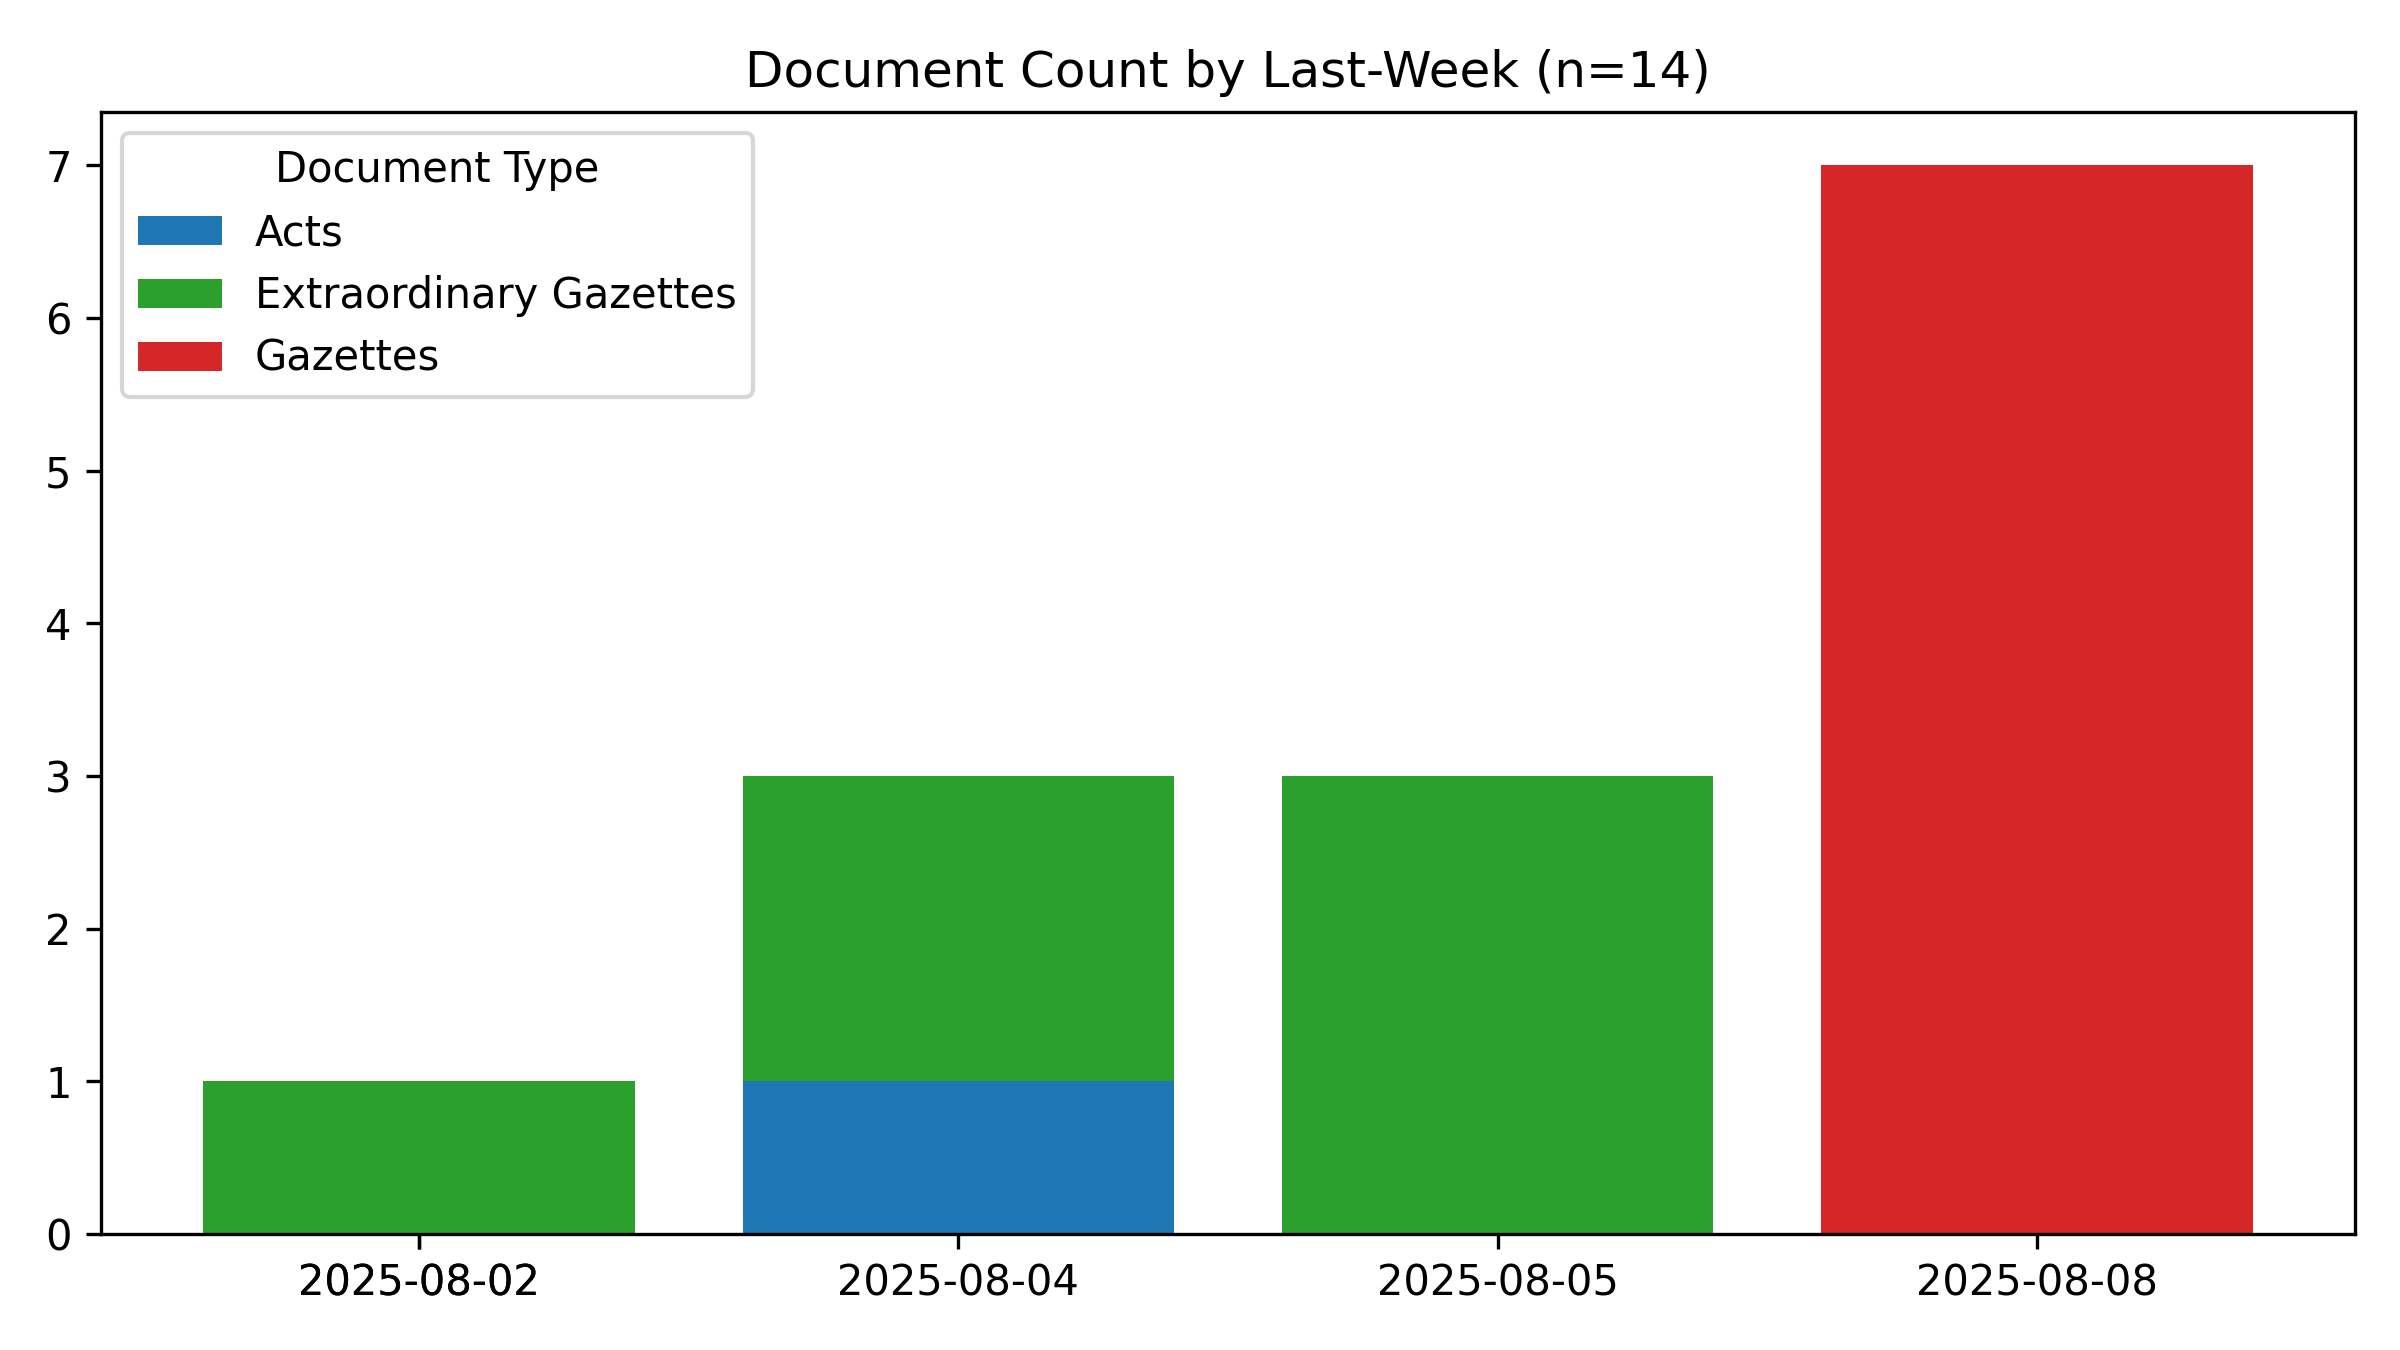
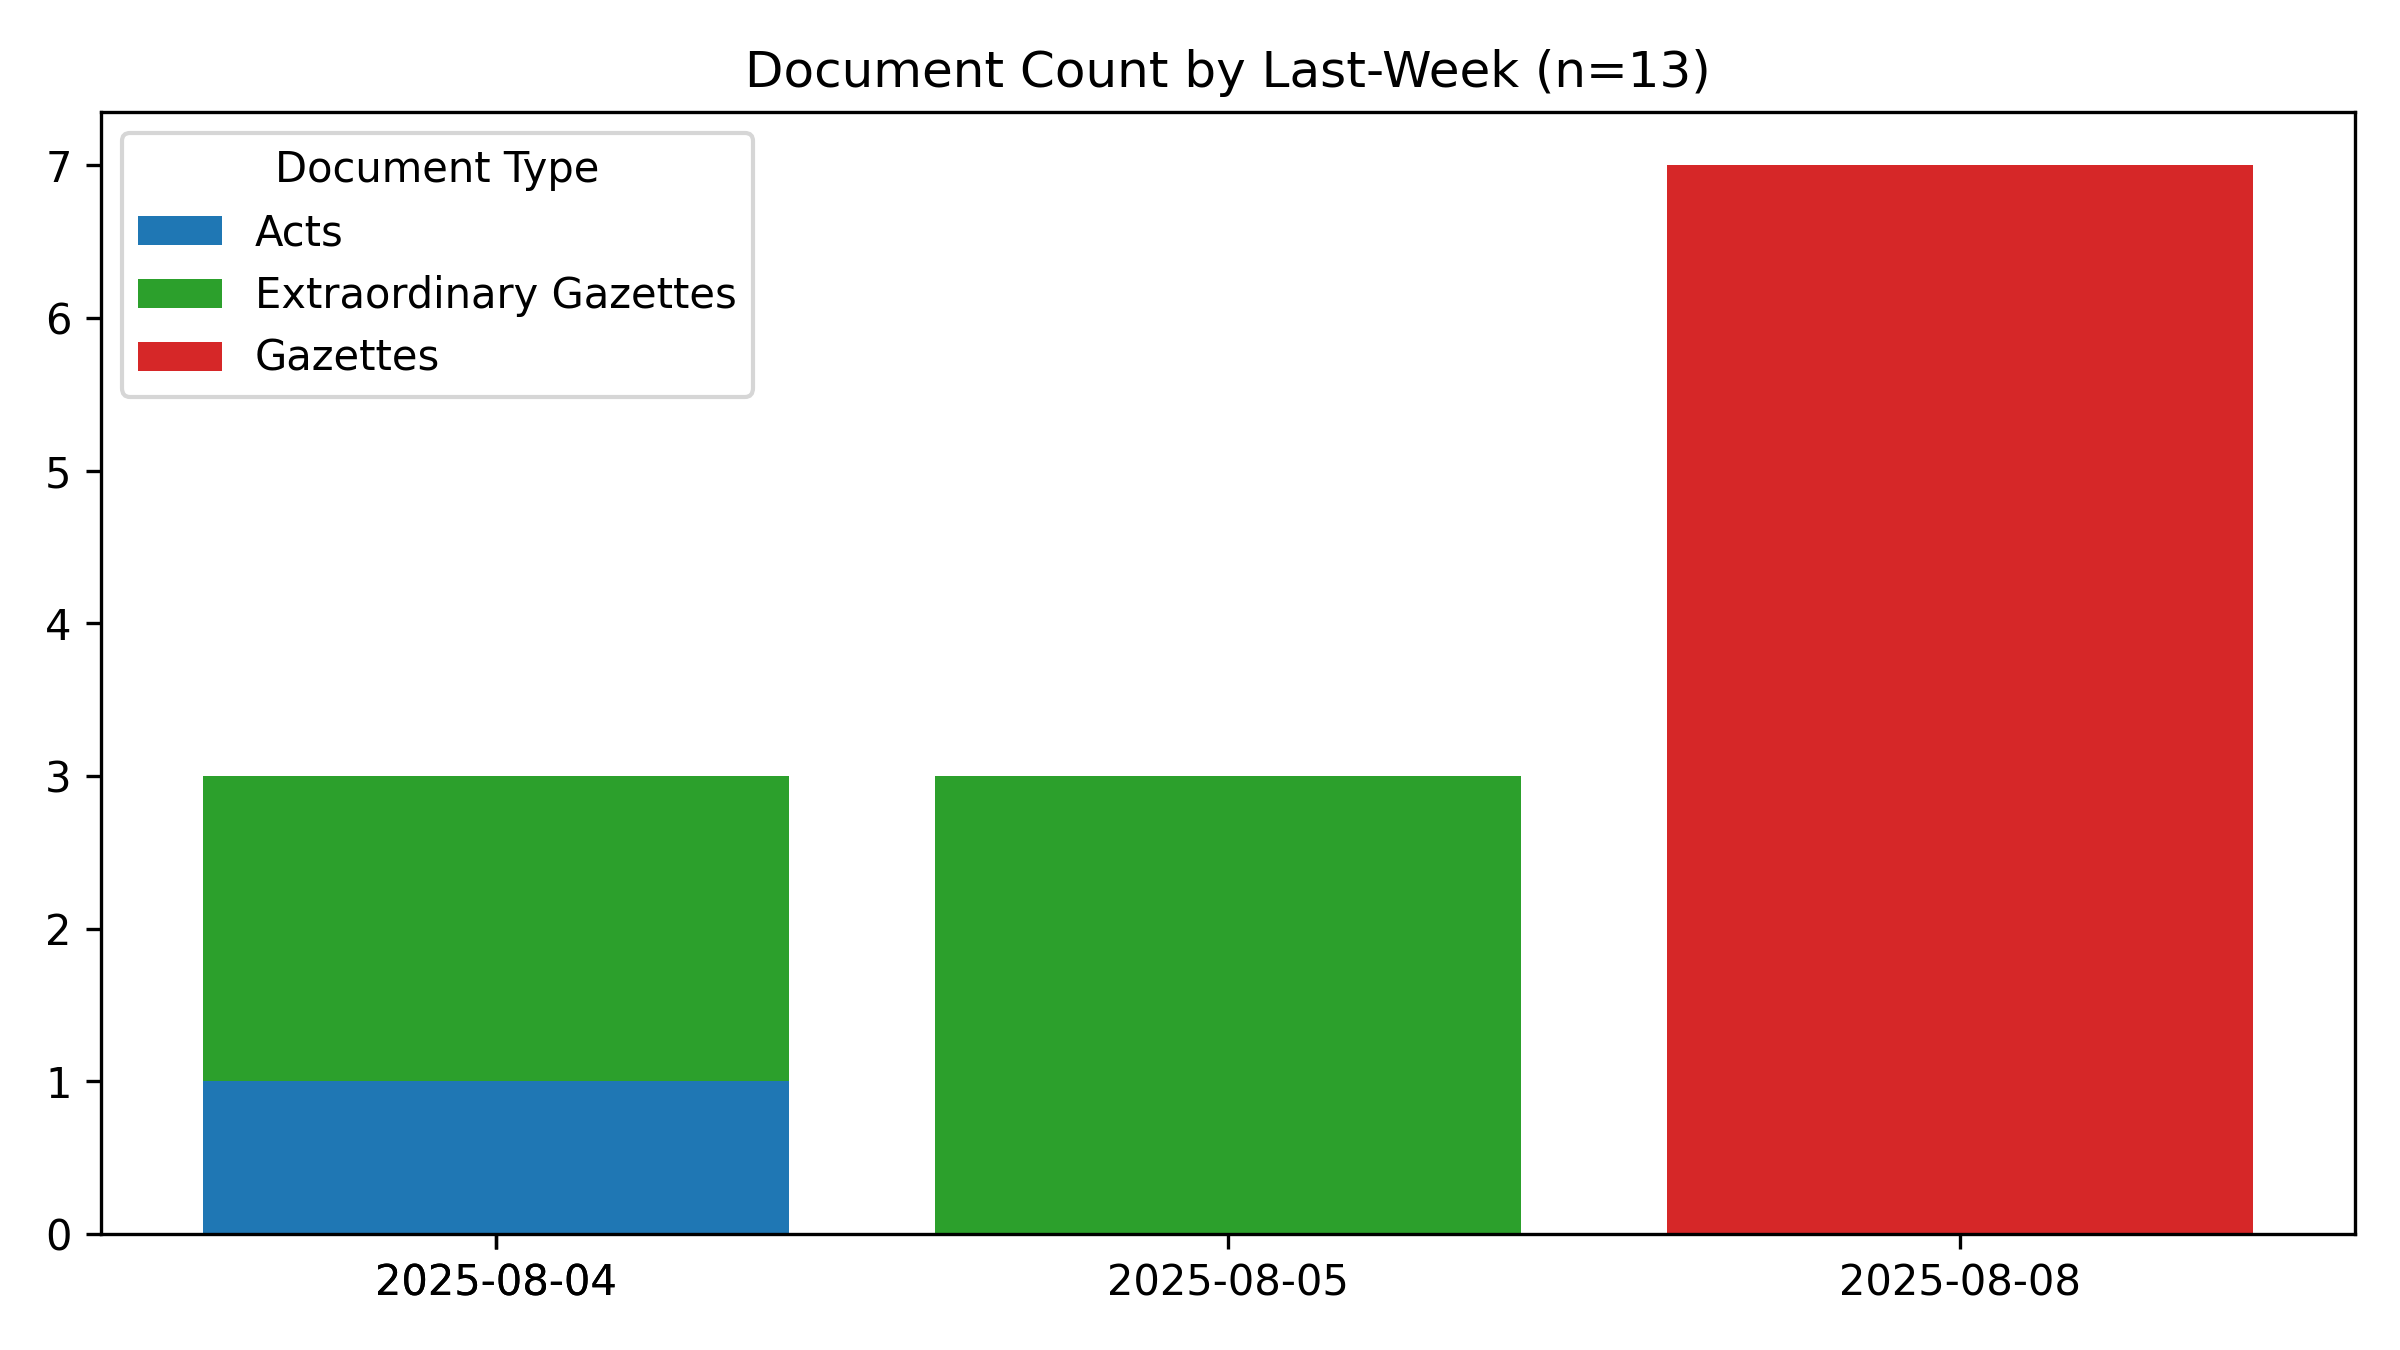
🤖 [build_readme.yml] 2025-08-10-0018

Changed region(s): [[0.0625, 0.1244, 0.7812, 0.9644], [0.75, 0.9333, 0.9062, 0.9644], [0.6875, 0.0311, 0.7188, 0.0622]]

diff --git a/README.md b/README.md
@@ -1,6 +1,6 @@
 # #SriLanka 🇱🇰 - Legal Documents #Dataset
 
-*Last Updated **2025-08-10 05:14:11**.*
+*Last Updated **2025-08-10 05:48:46**.*
 
 **44,243** documents (24.2 MB), from 1981-01-22 to 2025-08-08.
 
@@ -54,7 +54,7 @@ For best results, use a desktop browser.
 
 ## Recent Documents (Published during the last 7 days)
 
-**14** Documents
+**13** Documents
 
 - 📢 [2025-08-08] [Legal Section](https://github.com/nuuuwan/lk_legal_docs_data/tree/data_2020s/data/gazettes/2025/2025-08-08-legal-section)
 - 📢 [2025-08-08] [Land Section](https://github.com/nuuuwan/lk_legal_docs_data/tree/data_2020s/data/gazettes/2025/2025-08-08-land-section)
@@ -69,4 +69,3 @@ For best results, use a desktop browser.
 - 🚨 [2025-08-04] [Election Commission - Notice under Section 66A (1) Filling of a Vacancy in the office of members of the Panadura Pradeshiya Sabha](https://github.com/nuuuwan/lk_legal_docs_data/tree/data_2020s/data/extra-gazettes/2025/2448-05)
 - 🚨 [2025-08-04] [Sri Lanka Customs- Rates of Exchange with effect from 04.08.2025 to 10.08.2025](https://github.com/nuuuwan/lk_legal_docs_data/tree/data_2020s/data/extra-gazettes/2025/2448-01)
 - 🏛 [2025-08-04] [Companies (Amendment)](https://github.com/nuuuwan/lk_legal_docs_data/tree/data_2020s/data/acts/2025/12-2025)
-- 🚨 [2025-08-02] [Election Commission - Notice under Section 66A (1) Filling of a Vacancy in the office of member of the Horana Urban Council](https://github.com/nuuuwan/lk_legal_docs_data/tree/data_2020s/data/extra-gazettes/2025/2447-81)
